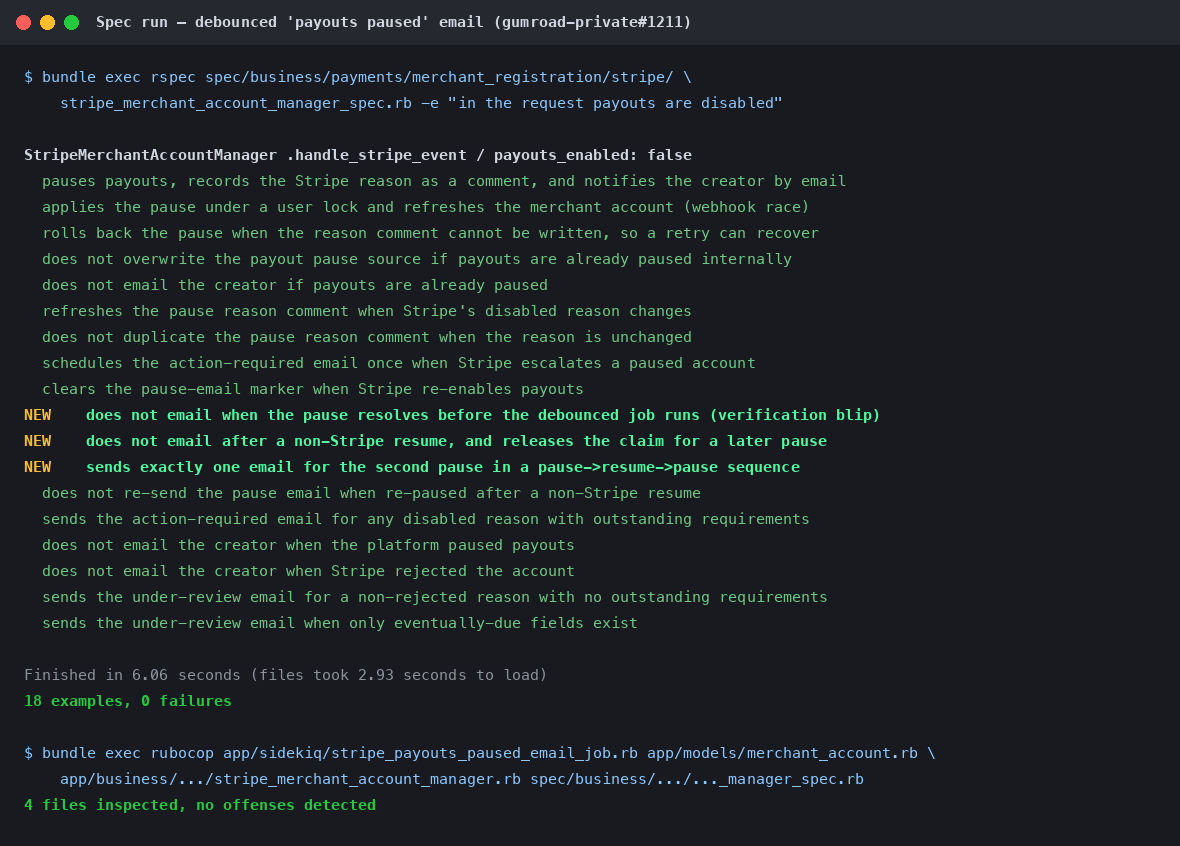
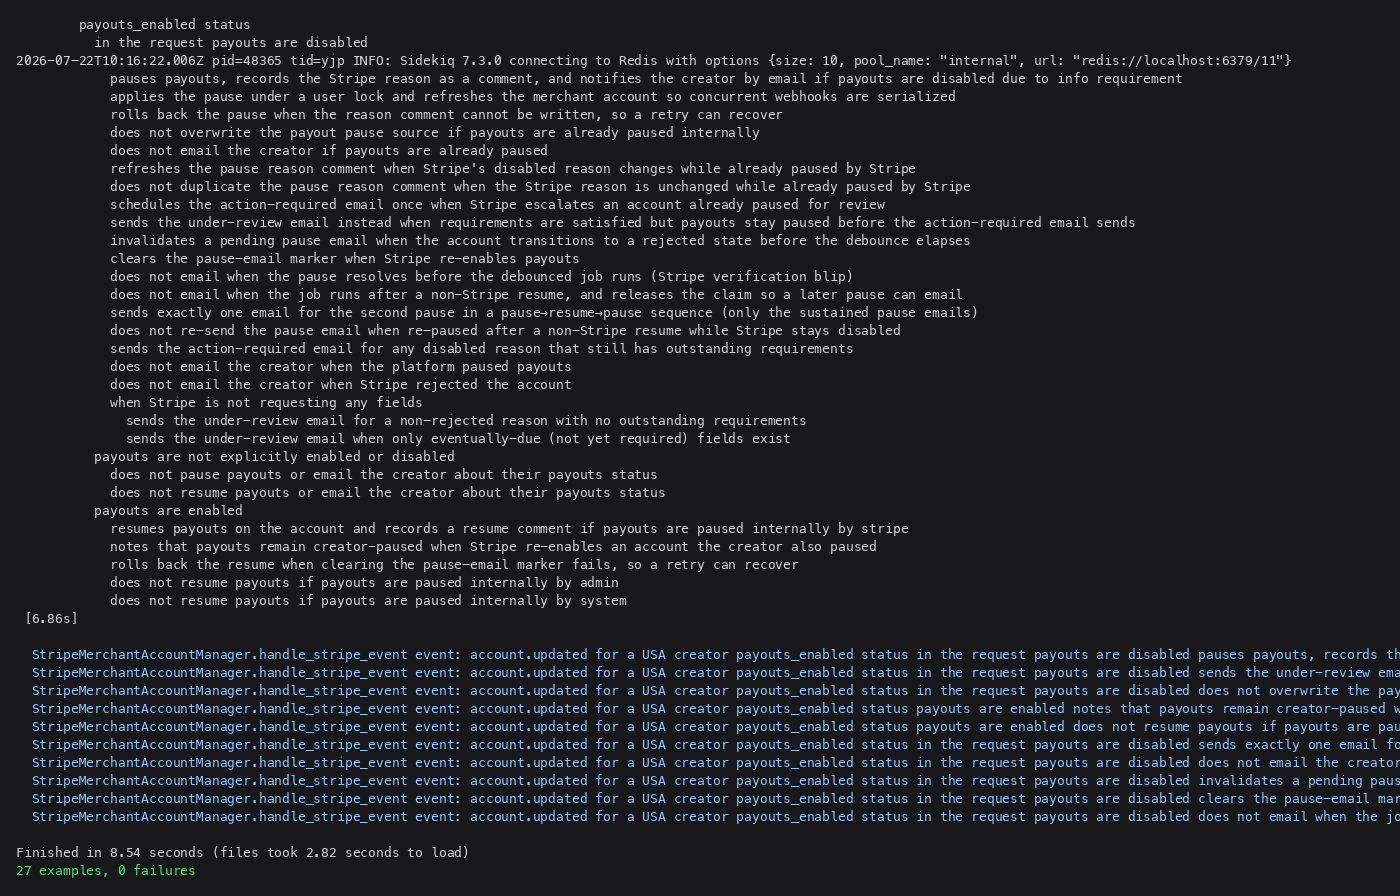
Rotate or drop the pause-email claim whenever the desired notification type changes
An action_required job scheduled during the debounce window could still
send after the account de-escalated to under_review (requirements
satisfied but payouts still paused), or after a transition to rejected.*
/ platform_paused — telling the seller to act when nothing is due, or
contradicting a rejection. Claim the under-review email on de-escalation
(rotating the token invalidates the stale job) and drop the claim
entirely on transitions to never-email states.

Changed region(s): [[0.0, 0.0, 1.0, 0.9835]]

diff --git a/app/business/payments/merchant_registration/implementations/stripe/stripe_merchant_account_manager.rb b/app/business/payments/merchant_registration/implementations/stripe/stripe_merchant_account_manager.rb
@@ -46,22 +46,43 @@ module StripeMerchantAccountManager
   # Claims (at most one of each) pause email per Stripe-disabled episode,
   # surviving admin/payout-method resumes (the marker is cleared only when
   # Stripe re-enables payouts). Action-required is claimed on first notice or on
-  # escalation from under-review; under-review only as the first notice. Updates
-  # the marker (called inside the user lock) and returns the email type to
-  # schedule after the lock commits, or nil.
+  # escalation from under-review; under-review is claimed as the first notice or
+  # on de-escalation from action-required (the seller satisfied the outstanding
+  # requirements but payouts stay paused pending Stripe's review). Updates the
+  # marker (called inside the user lock) and returns the email type to schedule
+  # after the lock commits, or nil.
   #
-  # Each successful claim also rotates stripe_payouts_pause_email_claim_token.
-  # The scheduled StripePayoutsPausedEmailJob carries the token it was created
-  # with and only sends if it still matches, so a job left over from an earlier
-  # pause (or from an under-review notice that has since escalated to
-  # action-required) can never send a stale or duplicate email.
+  # Each successful claim also rotates stripe_payouts_pause_email_claim_token,
+  # and a transition to a state that must never email (rejected.*,
+  # platform_paused) drops the claim entirely. The scheduled
+  # StripePayoutsPausedEmailJob carries the token it was created with and only
+  # sends if it still matches, so the token changes whenever the desired
+  # notification changes — a job left over from an earlier pause, or from a
+  # notice whose type has since escalated, de-escalated, or become
+  # a never-email state, can never send a stale or contradictory email.
   def self.claim_stripe_payouts_pause_email(merchant_account, pause_email_type)
+    already_claimed = merchant_account.stripe_payouts_pause_email_sent
     case pause_email_type
     when :action_required
-      return nil if merchant_account.stripe_payouts_pause_email_sent == "action_required"
+      return nil if already_claimed == "action_required"
     when :under_review
-      return nil unless merchant_account.stripe_payouts_pause_email_sent.nil?
+      # already_claimed == "action_required" falls through: the requirements
+      # were satisfied while the account stayed paused, so claim the
+      # under-review email. The rotated token invalidates any action-required
+      # job still waiting out its debounce window — without this, that stale
+      # job would tell the seller to act when nothing is due anymore.
+      return nil if already_claimed == "under_review"
     else
+      # The account moved to a state this flow never emails about (rejected.*
+      # or platform_paused). An email still waiting out its debounce window
+      # from before the transition would now contradict the account's state
+      # ("please provide information" on a rejected account), so drop the
+      # claim — clearing the token invalidates the pending job. Clearing the
+      # marker also lets a later actionable phase (e.g. a rejection appeal
+      # that reopens verification) email the seller afresh.
+      if already_claimed || merchant_account.stripe_payouts_pause_email_claim_token
+        merchant_account.update!(stripe_payouts_pause_email_sent: nil, stripe_payouts_pause_email_claim_token: nil)
+      end
       return nil
     end
     merchant_account.update!(

diff --git a/spec/business/payments/merchant_registration/stripe/stripe_merchant_account_manager_spec.rb b/spec/business/payments/merchant_registration/stripe/stripe_merchant_account_manager_spec.rb
@@ -10806,6 +10806,54 @@ describe StripeMerchantAccountManager, :vcr do
                 .and(not_have_enqueued_mail(MerchantRegistrationMailer, :stripe_payouts_under_review))
             end
 
+            it "sends the under-review email instead when requirements are satisfied but payouts stay paused before the action-required email sends" do
+              stripe_event["data"]["object"]["requirements"]["disabled_reason"] = "requirements.past_due"
+
+              expect do
+                described_class.handle_stripe_event(stripe_event)
+              end.to change { StripePayoutsPausedEmailJob.jobs.size }.by(1)
+
+              # Within the debounce window the seller satisfies the past-due
+              # requirement, but payouts remain disabled pending Stripe's review.
+              review_event = stripe_event.deep_dup
+              review_event["data"]["object"]["requirements"]["disabled_reason"] = "requirements.pending_verification"
+              review_event["data"]["object"]["requirements"]["past_due"] = []
+              expect do
+                described_class.handle_stripe_event(review_event)
+              end.to change { StripePayoutsPausedEmailJob.jobs.size }.by(1)
+
+              # The de-escalation rotated the claim token, so the pending
+              # action-required job is stale: the seller is not told to act
+              # when nothing is due — only the under-review email sends.
+              expect do
+                StripePayoutsPausedEmailJob.drain
+              end.to have_enqueued_mail(MerchantRegistrationMailer, :stripe_payouts_under_review).with(user.id)
+                .and(not_have_enqueued_mail(MerchantRegistrationMailer, :stripe_payouts_disabled))
+            end
+
+            it "invalidates a pending pause email when the account transitions to a rejected state before the debounce elapses" do
+              stripe_event["data"]["object"]["requirements"]["disabled_reason"] = "requirements.past_due"
+
+              expect do
+                described_class.handle_stripe_event(stripe_event)
+              end.to change { StripePayoutsPausedEmailJob.jobs.size }.by(1)
+
+              # Stripe rejects the account within the debounce window. Telling
+              # the seller to provide information now would contradict the
+              # rejection, so the claim is dropped entirely.
+              rejected_event = stripe_event.deep_dup
+              rejected_event["data"]["object"]["requirements"]["disabled_reason"] = "rejected.listed"
+              described_class.handle_stripe_event(rejected_event)
+
+              expect(merchant_account.reload.stripe_payouts_pause_email_sent).to be_nil
+              expect(merchant_account.stripe_payouts_pause_email_claim_token).to be_nil
+
+              expect do
+                StripePayoutsPausedEmailJob.drain
+              end.to not_have_enqueued_mail(MerchantRegistrationMailer, :stripe_payouts_disabled)
+                .and(not_have_enqueued_mail(MerchantRegistrationMailer, :stripe_payouts_under_review))
+            end
+
             it "clears the pause-email marker when Stripe re-enables payouts" do
               merchant_account.update!(stripe_payouts_pause_email_sent: "action_required", stripe_payouts_pause_email_claim_token: "stale-token")
               user.update!(payouts_paused_internally: true, payouts_paused_by: User::PAYOUT_PAUSE_SOURCE_STRIPE)
